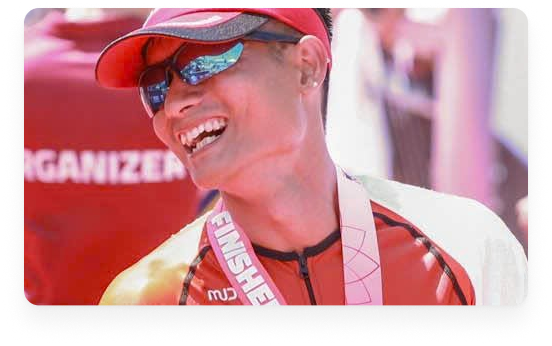
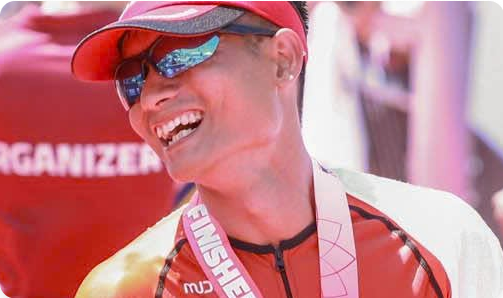
Feature: responsive service detail section

diff --git a/src/app/components/service-details/index.tsx b/src/app/components/service-details/index.tsx
@@ -10,7 +10,7 @@ export default function ServiceDetails() {
   const datas = [
     {
       image: serviceImage,
-      title: "Ticket - Racebook",
+      title: "Ticket - EnjoySport",
       descriptionList: [
         "Ứng dụng Digital Marketing (email, ZNS, social media) để hỗ trợ truyền thông sự kiện",
         "Mua vé không cần đăng nhập",
@@ -75,7 +75,7 @@ export default function ServiceDetails() {
     },
   ];
   return (
-    <div className="pt-10 px-10 flex flex-col items-center gap-8">
+    <div className="pt-10 px-10 mb-10 flex flex-col items-center gap-8">
       <div className="max-w-lg lg:max-w-max text-left lg:text-center">
         <h1 className="text-gradient text-3xl lg:text-[48px] leading-normal lg:leading-loose font-bold fade-up">
           CHI TIẾT VỀ DỊCH VỤ CỦA CHÚNG TÔI
@@ -88,14 +88,16 @@ export default function ServiceDetails() {
         </p>
       </div>
 
-      <div className="grid grid-cols-1 lg:grid-cols-2 max-w-6xl gap-6 place-items-stretch">
+      <div className="grid grid-cols-1 lg:grid-cols-2 max-w-6xl gap-10 place-items-center">
         {/* First Row */}
         <Image
-          className="order-1 lg:order-none fade-left"
+          width={505}
+          height={296}
+          className="order-1 lg:order-none fade-left object-contain"
           src={datas[0].image}
           alt="A man smiling"
         />
-        <div className="order-2 lg:order-none fade-right">
+        <div id="ticket" className="order-2 lg:order-none fade-right">
           <Card
             title={datas[0].title}
             descriptionList={datas[0].descriptionList}
@@ -103,67 +105,77 @@ export default function ServiceDetails() {
         </div>
 
         {/* Second Row */}
-        <div className="order-4 lg:order-none fade-left">
+        <div id="stream" className="order-4 lg:order-none fade-left">
           <Card
             title={datas[1].title}
-            descriptionList={datas[0].descriptionList}
+            descriptionList={datas[1].descriptionList}
           />
         </div>
         <Image
-          className="order-3 lg:order-none fade-right"
+          width={505}
+          height={296}
+          className="order-3 lg:order-none fade-right object-contain"
           src={datas[1].image}
           alt="A man smiling"
         />
 
         {/* Third Row */}
         <Image
-          className="order-5 lg:order-none fade-left"
+          width={505}
+          height={296}
+          className="order-5 lg:order-none fade-left object-contain"
           src={datas[2].image}
           alt="A man smiling"
         />
-        <div className="order-6 lg:order-none fade-right">
+        <div id="photo" className="order-6 lg:order-none fade-right">
           <Card
             title={datas[2].title}
-            descriptionList={datas[0].descriptionList}
+            descriptionList={datas[2].descriptionList}
           />
         </div>
 
         {/* Fourth Row */}
-        <div className="order-8 lg:order-none fade-left">
+        <div id="video" className="order-8 lg:order-none fade-left">
           <Card
             title={datas[3].title}
-            descriptionList={datas[0].descriptionList}
+            descriptionList={datas[3].descriptionList}
           />
         </div>
         <Image
-          className="order-7 lg:order-none fade-right"
+          width={505}
+          height={296}
+          className="order-7 lg:order-none fade-right object-contain"
           src={datas[3].image}
           alt="A man smiling"
         />
 
         {/* Fifth Row */}
         <Image
-          className="order-9 lg:order-none fade-left"
+          width={505}
+          height={296}
+          className="order-9 lg:order-none fade-left object-contain"
           src={datas[4].image}
           alt="A man smiling"
         />
 
-        <div className="order-10 lg:order-none fade-right">
+        <div id="check-in" className="order-10 lg:order-none fade-right">
           <Card
             title={datas[4].title}
-            descriptionList={datas[0].descriptionList}
+            descriptionList={datas[4].descriptionList}
           />
         </div>
 
         {/* Sixth Row */}
-        <div className="order-12 lg:order-none fade-left">
+        <div id="timing" className="order-12 lg:order-none fade-left">
           <Card
             title={datas[5].title}
-            descriptionList={datas[0].descriptionList}
+            descriptionList={datas[5].descriptionList}
           />
         </div>
         <Image
-          className="order-11 lg:order-none fade-right"
+          width={505}
+          height={296}
+          className="order-11 lg:order-none fade-right object-contain"
           src={datas[5].image}
           alt="A man smiling"
         />

diff --git a/src/app/components/service-details/card.tsx b/src/app/components/service-details/card.tsx
@@ -5,7 +5,7 @@ interface CardProps {
 
 export default function Card({ title, descriptionList }: CardProps) {
   return (
-    <div className="max-w-[530px]  shadow-lg px-6 py-5 rounded-[10px] h-fit">
+    <div className="lg:min-w-[505px] min-w-min shadow-lg px-6 py-5 rounded-[10px] ">
       <h2 className="text-gradient text-[27px] font-bold">{title}</h2>
       <ul className="list-disc px-6 py-5">
         {descriptionList.map((description) => (
